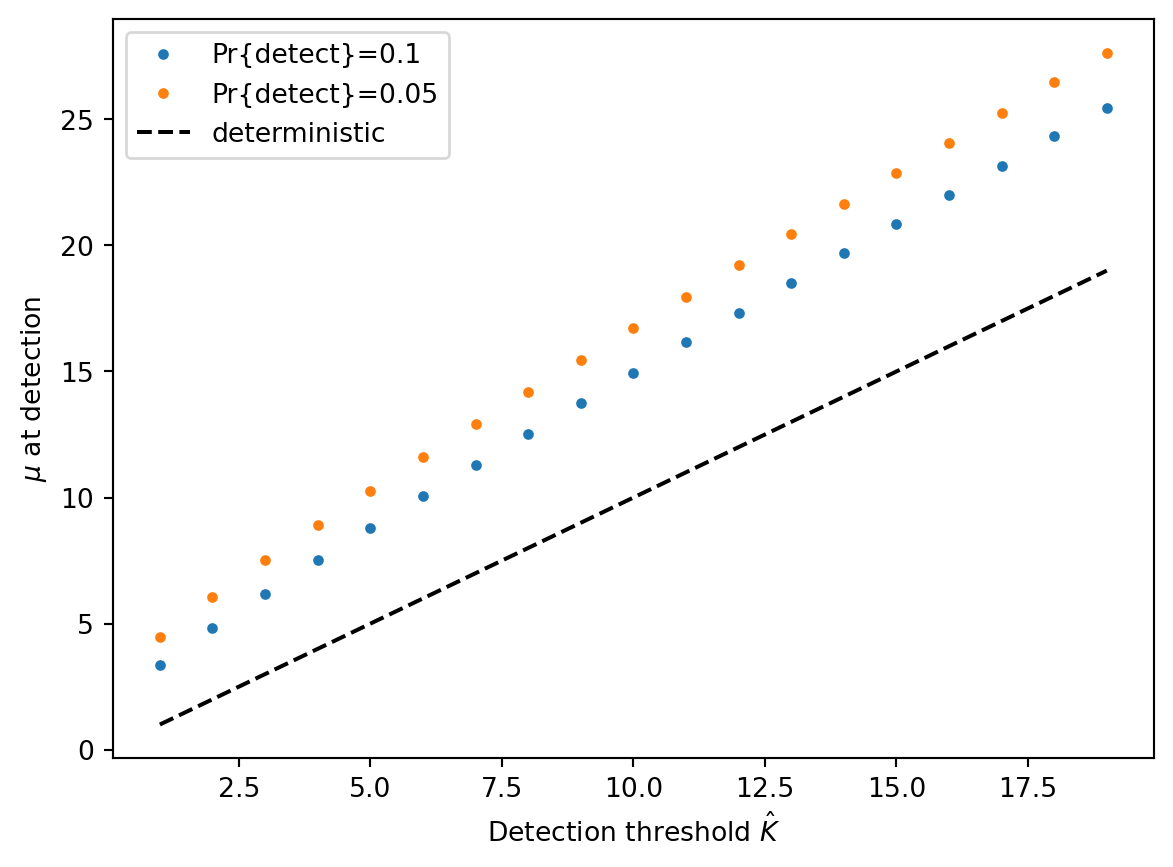
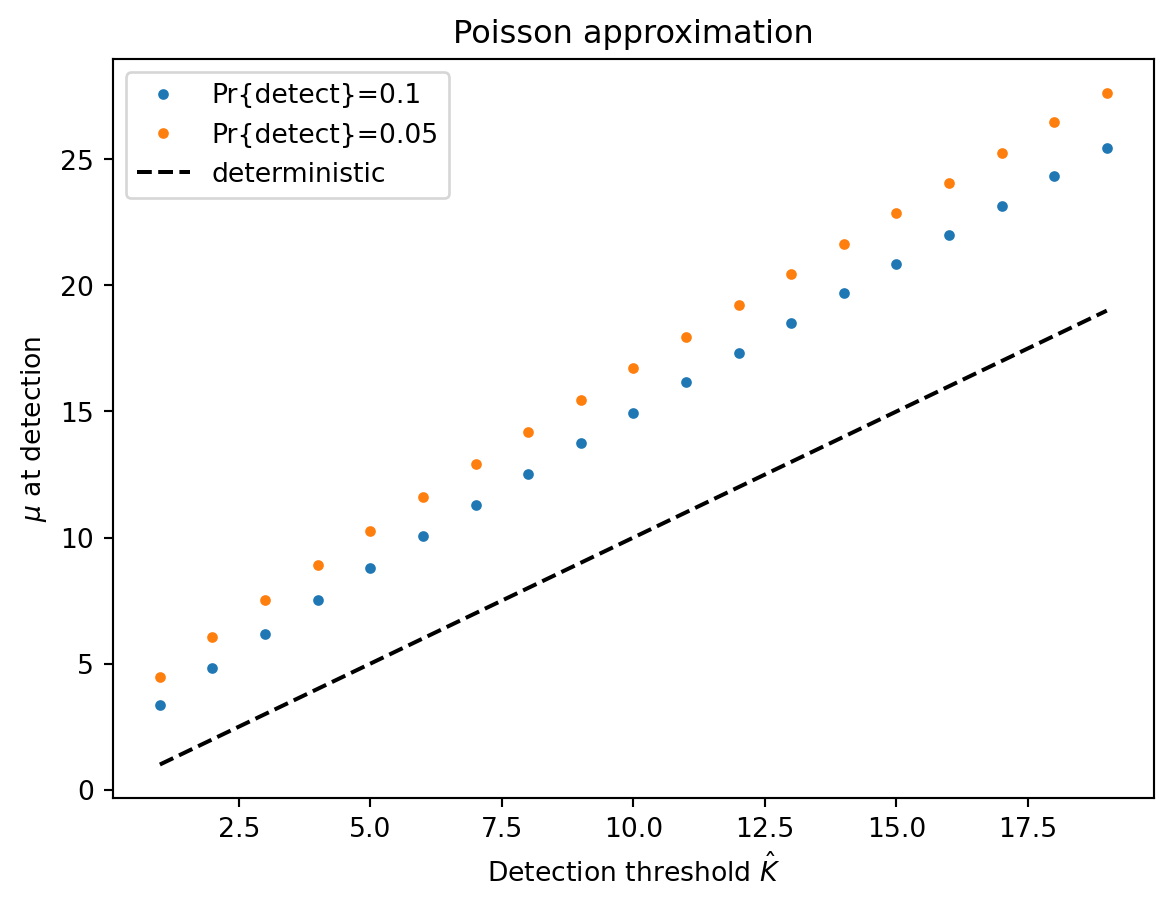
Clean up stochastic notebook

diff --git a/docs/notebooks/2024-02-22_StochasticMVP.html b/docs/notebooks/2024-02-22_StochasticMVP.html
@@ -190,14 +190,14 @@ pre > code.sourceCode > span > a:first-child::before { text-decoration: underlin
 
 <section id="background" class="level2">
 <h2 class="anchored" data-anchor-id="background">Background</h2>
-<p><a href="./2024-02-02_CostEstimateMVP.html">Previously</a>, we have worked out a deterministic model of the sequencing depth required to detect a novel pandemic virus by the time it reaches a fixed cumulative incidence (number of people ever infected). However, in the real world, there are a number of sources of noise that will affect our ability to detect a virus. In this post, we ask the question: <strong>How much sequencing is required to have an <span class="math inline">\(x\)</span>% chance to detect a virus by the time it reaches a fixed cumulative incidence, given a particular model of the noise?</strong></p>
+<p><a href="./2024-02-02_CostEstimateMVP.html">Previously</a>, we have worked out a deterministic model of the sequencing depth required to detect a novel pandemic virus by the time it reaches a fixed cumulative incidence (number of people ever infected). However, in the real world, there are a number of sources of noise that will affect our ability to detect a virus. In this post, we ask the question: <strong>For a given level of sequencing, what is the cumulative incidence by which we have an x% chance of detecting a virus?</strong> We can use this result to modify our deterministic estimates of the level of sequencing required to detect by a given cumulative incidence.</p>
 </section>
 <section id="model" class="level2">
 <h2 class="anchored" data-anchor-id="model">Model</h2>
 <p>It is useful to categorize noise sources by how they behave as various parameters like the sequencing depth change. For example, three types of noise that are relevant to our problem are:</p>
 <ol type="1">
-<li>Noise whose coefficient of variation decreases as the sequencing depth increases. This includes poisson counting noise in the number of reads mapping to a sequence, due to finite sampling effects.</li>
-<li>Noise whose coefficient of variation goes to a constant value as the sequencing depth increases. For example, the relative abundances in a sequencing library depend on biases in enrichment efficiency. If there is a class of abundant sequences that are efficiently enriched by our lab protocol, random variation in the abundance of that class of sequences will generate noise in the counts of all the other sequences that is only weakly dependent on the total read depth.</li>
+<li>Noise whose coefficient of variation decreases as the sequencing depth increases. This includes poisson counting noise in the number of reads mapping to a sequence, due to finite sampling effects. Variation in the number of reads per sample likely takes this form as well.</li>
+<li>Noise whose coefficient of variation goes to a constant value as the sequencing depth increases. For example, random variation in the efficiency of the target will contribute this type of noise. Also, the relative abundances in a sequencing library depend on biases in enrichment efficiency. If there is a class of abundant sequences that are efficiently enriched by our lab protocol, random variation in the abundance of that class of sequences will generate noise in the counts of all the other sequences that is only weakly dependent on the total read depth.</li>
 <li>Noise that depends on the number of people contributing to a sample. For example, in the limit where each sample is taken from a single person, the noise in the counts of reads mapping to the pandemic virus will be dominated by whether that single person is infected or not.</li>
 </ol>
 <p>In the following, we consider noise classes 1 and 2. We neglect 3 for the moment because in well-mixed municipal wastewater samples, we expect this to be a small effect. However, similar analysis to that presented here could be applied in that case as well. (Update: see Appendix for update with a treatment of 3).</p>
@@ -285,7 +285,7 @@ K_X(z) &amp; = \sum_{\alpha=1}^{\infty} \frac{\phi^{1-\alpha}}{\alpha} \left(\su
        &amp; \approx \sum_{\alpha=1}^{\infty} \frac{\phi^{1-\alpha}}{\alpha^2 r \delta t} {\left(A e^{r i \delta t}\right)}^\alpha \left(\frac{\alpha r \delta t e^{\alpha r \delta t}}{e^{\alpha r \delta t} - 1} \right) z^\alpha \\
        &amp; \approx \sum_{\alpha=1}^{\infty} \frac{\phi^{1-\alpha}}{\alpha^2 r \delta t} {\left(A e^{r i \delta t}\right)}^\alpha z^\alpha
 \end{align}
-\]</span> Where the first approximation requries the prevalence to be large compared to one, and the second approximation requires <span class="math inline">\(\alpha r \delta t \ll 1\)</span>. (TODO: generalize the second approximation.)</p>
+\]</span> Where the first approximation requires the prevalence to be large compared to one, and the second approximation requires <span class="math inline">\(\alpha r \delta t \ll 1\)</span>. (TODO: generalize the second approximation.)</p>
 <p>It is illuminating to parameterize the distribution of <span class="math inline">\(X\)</span> by its mean, <span class="math inline">\(\mu\)</span>, and a shape parameter <span class="math inline">\(\nu\)</span>: <span class="math display">\[
 \begin{align}
 \mu &amp; \equiv K_X'(0) \\
@@ -421,8 +421,8 @@ h_{11}(x) &amp; = - \frac{2\text{He}_3(x) + \text{He}_1(x)}{36} \\
 <span id="cb5-6"><a href="#cb5-6" aria-hidden="true" tabindex="-1"></a>plt.xlabel(<span class="vs">r"$\mu$"</span>)</span>
 <span id="cb5-7"><a href="#cb5-7" aria-hidden="true" tabindex="-1"></a>plt.ylabel(<span class="vs">r"Variance of $Y$"</span>)</span>
 <span id="cb5-8"><a href="#cb5-8" aria-hidden="true" tabindex="-1"></a>plt.legend()</span></code><button title="Copy to Clipboard" class="code-copy-button"><i class="bi"></i></button></pre></div>
-<div class="cell-output cell-output-display" data-execution_count="4">
-<pre><code>&lt;matplotlib.legend.Legend at 0x15bf66790&gt;</code></pre>
+<div class="cell-output cell-output-display" data-execution_count="200">
+<pre><code>&lt;matplotlib.legend.Legend at 0x1514f2e10&gt;</code></pre>
 </div>
 <div class="cell-output cell-output-display">
 <p><img src="2024-02-22_StochasticMVP_files/figure-html/cell-5-output-2.png" width="593" height="429"></p>
@@ -661,11 +661,10 @@ h_{11}(x) &amp; = - \frac{2\text{He}_3(x) + \text{He}_1(x)}{36} \\
 </section>
 <section id="implications-for-cost" class="level2">
 <h2 class="anchored" data-anchor-id="implications-for-cost">Implications for cost</h2>
-<p>Sketch of implications:</p>
 <p>In the Poisson-dominated regime, a Gaussian approximation is pretty good, so <span class="math display">\[
 y(p) \approx \mu + \mu^{1/2} \Phi^{-1}(p)
-\]</span> Set <span class="math inline">\(p\)</span> to be one minus the target probability of detection, set <span class="math inline">\(y(p) = \hat{K}\)</span>, the detection threshold. Solve for <span class="math inline">\(\mu\)</span>. Then compare this <span class="math inline">\(\mu\)</span> to the deterministic model. Will predict that there’s a delay in detection due to having to wait for the mean to be larger than the threshold to have a high probability of detection.</p>
-<p>The Poisson regime will be more appropriate for small read counts and thus small thresholds. Let’s consider the effect of stochasticity on detection when the threshold <span class="math inline">\(\hat{K}\)</span> is low. If we detect when we observe two reads, the previous equation shows that we will need <span class="math inline">\(\mu geq 4.8\)</span> to detect 10% of the time. In contrast, our deterministic model predicts that we dectect when <span class="math inline">\(\mu = 2\)</span>. Thus, the Poisson noise costs us over a full doubling time in detection sensitivity.</p>
+\]</span> Note that this is true even when the detection threshold <span class="math inline">\(\hat{K} = 1\)</span> because the mean will have to be larger than one to have a high probability of detection. We can let <span class="math inline">\(p\)</span> be one minus the target probability of detection, set <span class="math inline">\(y(p) = \hat{K}\)</span>, and solve for <span class="math inline">\(\mu\)</span>. This allows us to calculate the delay in detection due to having to wait for the mean to be larger than the threshold.</p>
+<p>The Poisson regime will be more appropriate for small read counts and thus small thresholds. Let’s consider the effect of stochasticity on detection when the threshold <span class="math inline">\(\hat{K}\)</span> is low. If we detect when we observe two reads, the previous equation shows that we will need <span class="math inline">\(\mu \geq 4.8\)</span> to detect 10% of the time. In contrast, our deterministic model predicts that we detect when <span class="math inline">\(\mu = 2\)</span>. Thus, the Poisson noise costs us over a full doubling time in detection sensitivity.</p>
 <div class="cell" data-execution_count="12">
 <div class="sourceCode cell-code" id="cb14"><pre class="sourceCode python code-with-copy"><code class="sourceCode python"><span id="cb14-1"><a href="#cb14-1" aria-hidden="true" tabindex="-1"></a><span class="im">from</span> scipy.optimize <span class="im">import</span> fsolve</span>
 <span id="cb14-2"><a href="#cb14-2" aria-hidden="true" tabindex="-1"></a></span>
@@ -685,23 +684,24 @@ y(p) \approx \mu + \mu^{1/2} \Phi^{-1}(p)
 <span id="cb14-16"><a href="#cb14-16" aria-hidden="true" tabindex="-1"></a>plt.plot(k_hat, mu_10, <span class="st">"."</span>, label<span class="op">=</span><span class="st">"Pr</span><span class="sc">{detect}</span><span class="st">=0.1"</span>)</span>
 <span id="cb14-17"><a href="#cb14-17" aria-hidden="true" tabindex="-1"></a>plt.plot(k_hat, mu_05, <span class="st">"."</span>, label<span class="op">=</span><span class="st">"Pr</span><span class="sc">{detect}</span><span class="st">=0.05"</span>)</span>
 <span id="cb14-18"><a href="#cb14-18" aria-hidden="true" tabindex="-1"></a>plt.plot(k_hat, k_hat, <span class="st">"--k"</span>, label<span class="op">=</span><span class="st">"deterministic"</span>)</span>
-<span id="cb14-19"><a href="#cb14-19" aria-hidden="true" tabindex="-1"></a>plt.legend()</span>
-<span id="cb14-20"><a href="#cb14-20" aria-hidden="true" tabindex="-1"></a>plt.ylabel(<span class="vs">r"$\mu$ at detection"</span>)</span>
-<span id="cb14-21"><a href="#cb14-21" aria-hidden="true" tabindex="-1"></a>plt.xlabel(<span class="vs">r"Detection threshold $\hat</span><span class="sc">{K}</span><span class="vs">$"</span>)</span>
-<span id="cb14-22"><a href="#cb14-22" aria-hidden="true" tabindex="-1"></a>plt.show()</span>
-<span id="cb14-23"><a href="#cb14-23" aria-hidden="true" tabindex="-1"></a></span>
-<span id="cb14-24"><a href="#cb14-24" aria-hidden="true" tabindex="-1"></a>plt.plot(k_hat, mu_10 <span class="op">/</span> k_hat)</span>
-<span id="cb14-25"><a href="#cb14-25" aria-hidden="true" tabindex="-1"></a>plt.plot(k_hat, mu_05 <span class="op">/</span> k_hat)</span>
-<span id="cb14-26"><a href="#cb14-26" aria-hidden="true" tabindex="-1"></a>plt.ylabel(<span class="st">"Inflation factor relative to deterministic"</span>)</span>
-<span id="cb14-27"><a href="#cb14-27" aria-hidden="true" tabindex="-1"></a>plt.xlabel(<span class="vs">r"Detection threshold $\hat</span><span class="sc">{K}</span><span class="vs">$"</span>)</span>
-<span id="cb14-28"><a href="#cb14-28" aria-hidden="true" tabindex="-1"></a>plt.ylim([<span class="dv">1</span>, <span class="fl">4.5</span>])</span></code><button title="Copy to Clipboard" class="code-copy-button"><i class="bi"></i></button></pre></div>
+<span id="cb14-19"><a href="#cb14-19" aria-hidden="true" tabindex="-1"></a>plt.title(<span class="st">"Poisson approximation"</span>)</span>
+<span id="cb14-20"><a href="#cb14-20" aria-hidden="true" tabindex="-1"></a>plt.legend()</span>
+<span id="cb14-21"><a href="#cb14-21" aria-hidden="true" tabindex="-1"></a>plt.ylabel(<span class="vs">r"$\mu$ at detection"</span>)</span>
+<span id="cb14-22"><a href="#cb14-22" aria-hidden="true" tabindex="-1"></a>plt.xlabel(<span class="vs">r"Detection threshold $\hat</span><span class="sc">{K}</span><span class="vs">$"</span>)</span>
+<span id="cb14-23"><a href="#cb14-23" aria-hidden="true" tabindex="-1"></a>plt.show()</span>
+<span id="cb14-24"><a href="#cb14-24" aria-hidden="true" tabindex="-1"></a></span>
+<span id="cb14-25"><a href="#cb14-25" aria-hidden="true" tabindex="-1"></a>plt.plot(k_hat, mu_10 <span class="op">/</span> k_hat)</span>
+<span id="cb14-26"><a href="#cb14-26" aria-hidden="true" tabindex="-1"></a>plt.plot(k_hat, mu_05 <span class="op">/</span> k_hat)</span>
+<span id="cb14-27"><a href="#cb14-27" aria-hidden="true" tabindex="-1"></a>plt.ylabel(<span class="st">"Inflation factor relative to deterministic"</span>)</span>
+<span id="cb14-28"><a href="#cb14-28" aria-hidden="true" tabindex="-1"></a>plt.xlabel(<span class="vs">r"Detection threshold $\hat</span><span class="sc">{K}</span><span class="vs">$"</span>)</span>
+<span id="cb14-29"><a href="#cb14-29" aria-hidden="true" tabindex="-1"></a>plt.ylim([<span class="dv">1</span>, <span class="fl">4.5</span>])</span></code><button title="Copy to Clipboard" class="code-copy-button"><i class="bi"></i></button></pre></div>
 <div class="cell-output cell-output-stdout">
 <pre><code>4.810935246946804</code></pre>
 </div>
 <div class="cell-output cell-output-display">
-<p><img src="2024-02-22_StochasticMVP_files/figure-html/cell-13-output-2.png" width="587" height="434"></p>
+<p><img src="2024-02-22_StochasticMVP_files/figure-html/cell-13-output-2.png" width="587" height="454"></p>
 </div>
-<div class="cell-output cell-output-display" data-execution_count="12">
+<div class="cell-output cell-output-display" data-execution_count="208">
 <pre><code>(1.0, 4.5)</code></pre>
 </div>
 <div class="cell-output cell-output-display">
@@ -713,7 +713,7 @@ y(p) \approx \mu + \mu^{1/2} \Phi^{-1}(p)
 y(p) &amp; \approx \mu + \frac{\mu}{{(2\nu)}^{1/2}} w_p(\nu) \\
      &amp; = \mu \left(1 +\frac{1}{{(2\nu)}^{1/2}} w_p(\nu)\right) \\
 \end{align}
-\]</span> Can caluclate <span class="math inline">\(w_p(\nu)\)</span> to as high order as we need, then solve for <span class="math inline">\(\mu\)</span> as in the Poisson regime Because <span class="math inline">\(w_p\)</span> will be negative (since <span class="math inline">\(p\)</span> is small), this will inflate the required <span class="math inline">\(\mu\)</span> for by a factor. This suggests a path for data analysis: if we can estimate <span class="math inline">\(\nu\)</span> from data (by estimating the overdispersion parameter <span class="math inline">\(\phi\)</span> in the read count distribution and then scaling by <span class="math inline">\(r \delta t\)</span>, we can estimate the inflation factor.</p>
+\]</span> Can calculate <span class="math inline">\(w_p(\nu)\)</span> to as high order as we need, then solve for <span class="math inline">\(\mu\)</span> as in the Poisson regime. Because <span class="math inline">\(w_p\)</span> will be negative (since <span class="math inline">\(p\)</span> is small), this will inflate the required <span class="math inline">\(\mu\)</span> for detection by a factor. This suggests a path for data analysis: if we can estimate <span class="math inline">\(\nu\)</span> from data (by estimating the overdispersion parameter <span class="math inline">\(\phi\)</span> in the read count distribution and then scaling by <span class="math inline">\(r \delta t\)</span>, we can estimate the inflation factor.</p>
 <div class="cell" data-execution_count="13">
 <div class="sourceCode cell-code" id="cb17"><pre class="sourceCode python code-with-copy"><code class="sourceCode python"><span id="cb17-1"><a href="#cb17-1" aria-hidden="true" tabindex="-1"></a><span class="kw">def</span> cf_latent(nu):</span>
 <span id="cb17-2"><a href="#cb17-2" aria-hidden="true" tabindex="-1"></a>    <span class="cf">return</span> HermiteE((<span class="dv">1</span>, (<span class="dv">2</span> <span class="op">*</span> nu) <span class="op">**</span> (<span class="op">-</span><span class="dv">1</span> <span class="op">/</span> <span class="dv">2</span>), (<span class="dv">2</span> <span class="op">/</span> <span class="dv">9</span>) <span class="op">/</span> nu))</span>
@@ -728,7 +728,7 @@ y(p) &amp; \approx \mu + \frac{\mu}{{(2\nu)}^{1/2}} w_p(\nu) \\
 <span id="cb17-11"><a href="#cb17-11" aria-hidden="true" tabindex="-1"></a>plt.ylabel(<span class="st">"Inflation factor relative to deterministic"</span>)</span>
 <span id="cb17-12"><a href="#cb17-12" aria-hidden="true" tabindex="-1"></a>plt.xlabel(<span class="vs">r"Shape parameter $\nu$"</span>)</span>
 <span id="cb17-13"><a href="#cb17-13" aria-hidden="true" tabindex="-1"></a>plt.ylim([<span class="dv">1</span>, <span class="fl">4.5</span>])</span></code><button title="Copy to Clipboard" class="code-copy-button"><i class="bi"></i></button></pre></div>
-<div class="cell-output cell-output-display" data-execution_count="13">
+<div class="cell-output cell-output-display" data-execution_count="209">
 <pre><code>(1.0, 4.5)</code></pre>
 </div>
 <div class="cell-output cell-output-display">
@@ -736,7 +736,8 @@ y(p) &amp; \approx \mu + \frac{\mu}{{(2\nu)}^{1/2}} w_p(\nu) \\
 </div>
 </div>
 <p>This suggests that the deterministic approximation will be within a doubling when <span class="math inline">\(\nu \gtrapprox 5\)</span>. However, it is never very close.</p>
-<p>Putting these results together suggests that regardless of the regime, we expect the mean at detection to be roughly 1.5 to 3.0 times higher under a stochastic model than under the deterministic approximation.</p>
+<p>Putting these results together suggests that regardless of the regime, we expect the sequencing depth required to achieve detection probability of 0.9 or 0.95 at the target cumulative incidence to be roughly 1.5 to 3.0 times higher under a stochastic model than under the deterministic approximation.</p>
+<p>The above assumes that <span class="math inline">\(\nu &gt; 1.5\)</span> or so. For smaller <span class="math inline">\(\nu\)</span>, our approximations break down. However, smaller <span class="math inline">\(\nu\)</span> means more variability. Under those circumstances, the details of the distribution of sequencing outcomes likely matter in some detail.</p>
 </section>
 <section id="appendix-small-pool-noise" class="level1">
 <h1>Appendix: Small pool noise</h1>
@@ -774,7 +775,7 @@ Pr\{Y \geq \hat{K}\} &amp; = 1 - Pr\{Y = 0\} \\
 <span id="cb19-3"><a href="#cb19-3" aria-hidden="true" tabindex="-1"></a>plt.xlabel(<span class="vs">r"Viral reads per sick individual in pool, $a$"</span>)</span>
 <span id="cb19-4"><a href="#cb19-4" aria-hidden="true" tabindex="-1"></a>plt.ylabel(<span class="vs">r"Inflation of $\mu$ at detection"</span>)</span>
 <span id="cb19-5"><a href="#cb19-5" aria-hidden="true" tabindex="-1"></a>plt.ylim([<span class="dv">0</span>, <span class="dv">10</span>])</span></code><button title="Copy to Clipboard" class="code-copy-button"><i class="bi"></i></button></pre></div>
-<div class="cell-output cell-output-display" data-execution_count="14">
+<div class="cell-output cell-output-display" data-execution_count="210">
 <pre><code>(0.0, 10.0)</code></pre>
 </div>
 <div class="cell-output cell-output-display">

diff --git a/docs/index.html b/docs/index.html
@@ -145,7 +145,7 @@ ul.task-list li input[type="checkbox"] {
 
 <div class="quarto-listing quarto-listing-container-default" id="listing-listing">
 <div class="list quarto-listing-default">
-<div class="quarto-post image-right" data-index="0" data-listing-date-sort="1709528400000" data-listing-file-modified-sort="1711749598021" data-listing-date-modified-sort="1711749598000" data-listing-reading-time-sort="22">
+<div class="quarto-post image-right" data-index="0" data-listing-date-sort="1709528400000" data-listing-file-modified-sort="1711753392174" data-listing-date-modified-sort="1711753392000" data-listing-reading-time-sort="23">
 <div class="thumbnail">
 <p><a href="./notebooks/2024-02-22_StochasticMVP.html"> <p class="card-img-top"><img src="notebooks/2024-02-22_StochasticMVP_files/figure-html/cell-5-output-2.png"  class="thumbnail-image card-img"/></p> </a></p>
 </div>
@@ -158,7 +158,7 @@ NAO Cost Estimate MVP – Adding noise
 
 </div>
 <div class="listing-description">
-Previously, we have worked out a deterministic model of the sequencing depth required to detect a novel pandemic virus by the time it reaches a fixed cumulative incidence (number of…<strong><span class="math inline"></span></strong>
+Previously, we have worked out a deterministic model of the sequencing depth required to detect a novel pandemic virus by the time it reaches a fixed cumulative incidence (number of…<strong></strong>
 </div>
 </a>
 </div>
